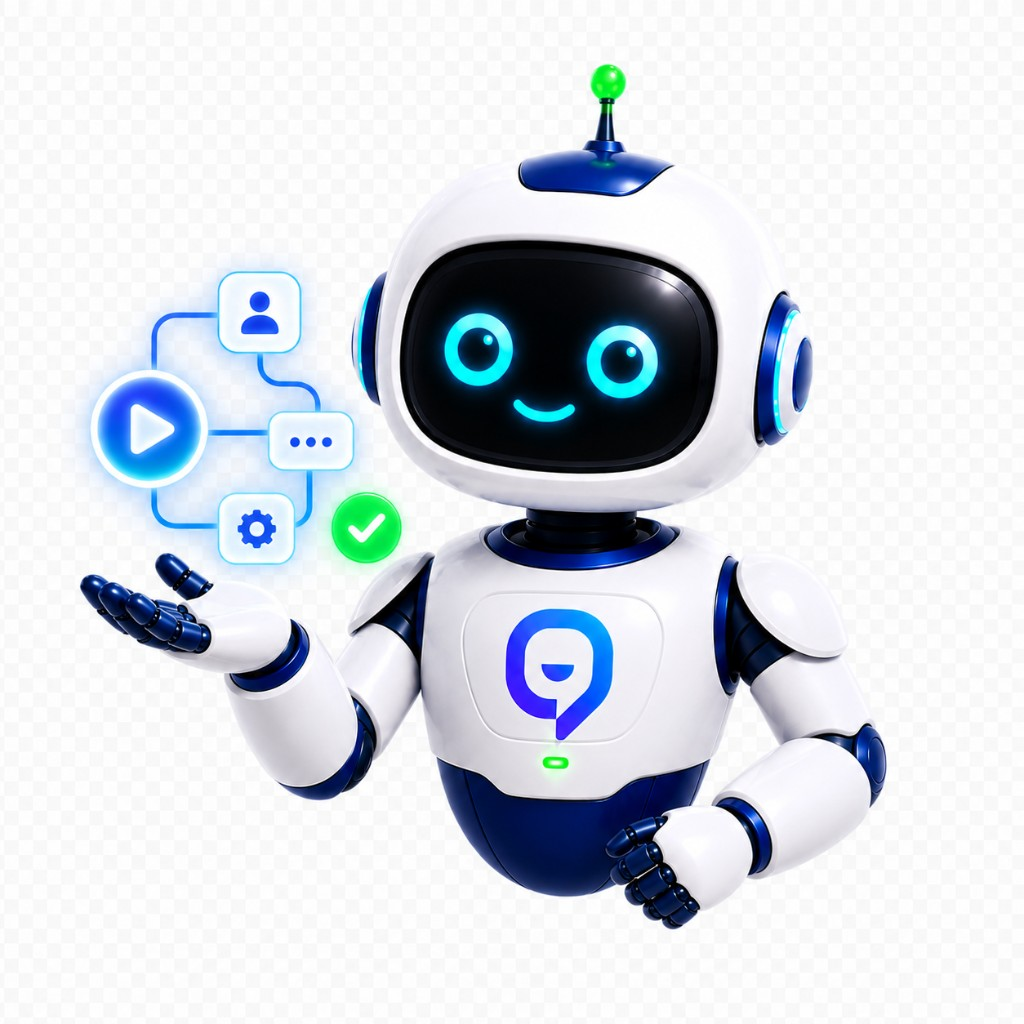
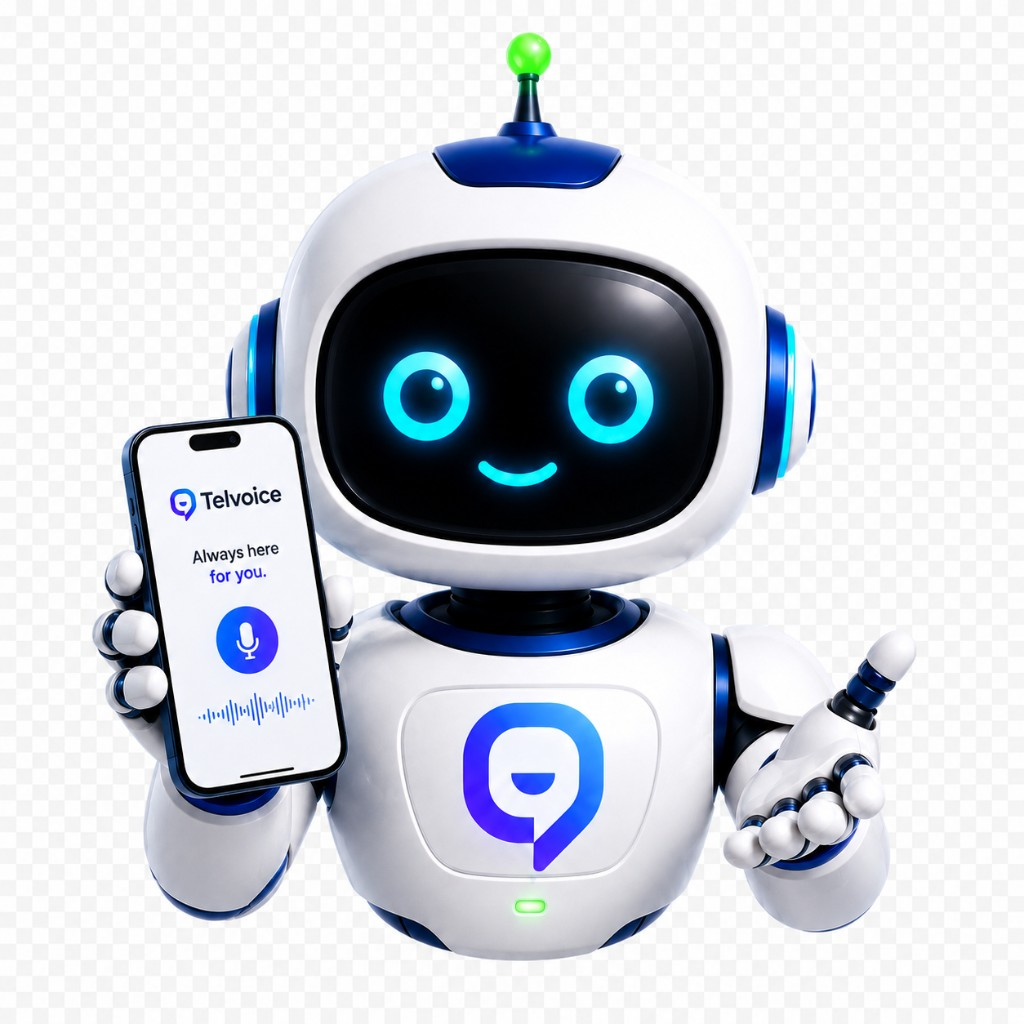
fix(lab): hero IA con fondo transparente como uso individual
Regenera PNG/WebP con el pipeline de limpieza y alinea el markup picture del hero al formato del caso individual.

diff --git a/landing-agent-lab/casos-de-uso/ia-automatizacion/index.html b/landing-agent-lab/casos-de-uso/ia-automatizacion/index.html
@@ -153,15 +153,18 @@
               </div>
             </header>
             <div class="lab-caso-page-hero__visual" aria-hidden="true">
-              <img
-                src="../../../assets/telvoice-agent-caso-ia-hero.png?v=20260603"
-                alt="Robot Telvoice con app de voz y automatización en el móvil"
-                width="1024"
-                height="1024"
-                class="lab-caso-page-hero__img"
-                decoding="async"
-                loading="eager"
-              />
+              <picture>
+                <source srcset="../../../assets/telvoice-agent-caso-ia-hero.webp?v=20260603" type="image/webp" />
+                <img
+                  src="../../../assets/telvoice-agent-caso-ia-hero.png?v=20260603"
+                  alt="Robot Telvoice con app de voz y automatización en el móvil"
+                  width="512"
+                  height="512"
+                  class="lab-caso-page-hero__img"
+                  decoding="async"
+                  loading="eager"
+                />
+              </picture>
             </div>
           </div>
         </div>